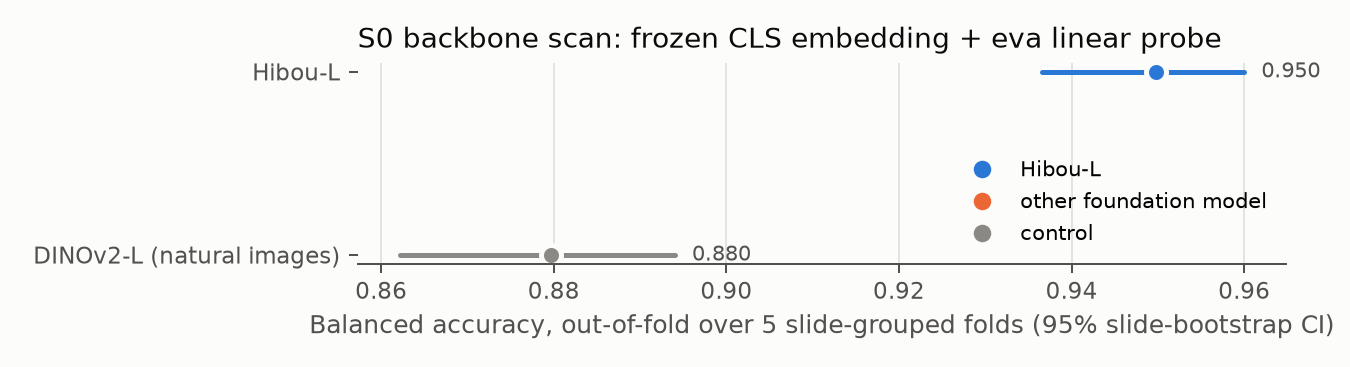
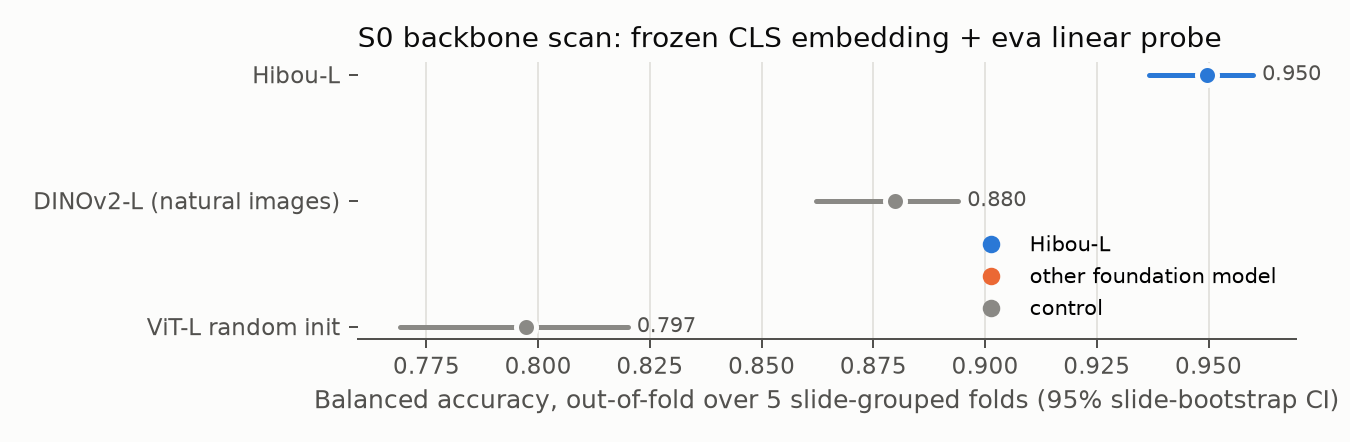
Release: S0_scan_random_vitl_reg4
New trained classifier(s) / decision(s): S0_scan_random_vitl_reg4. Compared with the original Hibou-L probe and the controls; paper, reports, README, site and Hugging Face updated.

diff --git a/README.md b/README.md
@@ -57,6 +57,7 @@ H2 reproduction gate: valid BA 0.9394 ± 0.0007 (5 seeds) vs. eva's published 0.
 | `S0_eva_exact_hibou_l` | Hibou-L | linear | 1024 | — | 0.9396 [0.8936, 0.9638] | 0.0007 | 0.9833 | yes |
 | `S0_hibou_l_cls_linear` | Hibou-L | linear | 1024 | 0.9498 [0.9366, 0.9600] | 0.9367 [0.8888, 0.9617] | 0.0015 | 0.9823 | yes |
 | `S0_scan_dinov2_reg_l` | DINOv2-L (natural images) | linear | 1024 | 0.8797 [0.8622, 0.8940] | 0.8682 [0.8103, 0.9023] | 0.0000 | 0.9448 | yes |
+| `S0_scan_random_vitl_reg4` | ViT-L random init | linear | 1024 | 0.7973 [0.7692, 0.8201] | 0.7902 [0.7232, 0.8334] | 0.0000 | 0.8721 | yes |
 | `S1_b_cls24_mean24` | Hibou-L | linear | 2048 | 0.9491 [0.9353, 0.9598] | 0.9353 [0.8830, 0.9607] | 0.0019 | 0.9816 | yes |
 | `S1_c_dinov2_last4` | Hibou-L | linear | 5120 | 0.9457 [0.9303, 0.9573] | 0.9316 [0.8712, 0.9593] | 0.0025 | 0.9796 | yes |
 | `S1_d_spread_6_12_18_24` | Hibou-L | linear | 8192 | 0.9469 [0.9318, 0.9585] | 0.9326 [0.8786, 0.9594] | 0.0020 | 0.9787 | yes |

diff --git a/reports/tables/arms.md b/reports/tables/arms.md
@@ -6,6 +6,7 @@
 | `S0_eva_exact_hibou_l` | Hibou-L | linear | 1024 | — | 0.9396 [0.8936, 0.9638] | 0.0007 | 0.9833 | yes |
 | `S0_hibou_l_cls_linear` | Hibou-L | linear | 1024 | 0.9498 [0.9366, 0.9600] | 0.9367 [0.8888, 0.9617] | 0.0015 | 0.9823 | yes |
 | `S0_scan_dinov2_reg_l` | DINOv2-L (natural images) | linear | 1024 | 0.8797 [0.8622, 0.8940] | 0.8682 [0.8103, 0.9023] | 0.0000 | 0.9448 | yes |
+| `S0_scan_random_vitl_reg4` | ViT-L random init | linear | 1024 | 0.7973 [0.7692, 0.8201] | 0.7902 [0.7232, 0.8334] | 0.0000 | 0.8721 | yes |
 | `S1_b_cls24_mean24` | Hibou-L | linear | 2048 | 0.9491 [0.9353, 0.9598] | 0.9353 [0.8830, 0.9607] | 0.0019 | 0.9816 | yes |
 | `S1_c_dinov2_last4` | Hibou-L | linear | 5120 | 0.9457 [0.9303, 0.9573] | 0.9316 [0.8712, 0.9593] | 0.0025 | 0.9796 | yes |
 | `S1_d_spread_6_12_18_24` | Hibou-L | linear | 8192 | 0.9469 [0.9318, 0.9585] | 0.9326 [0.8786, 0.9594] | 0.0020 | 0.9787 | yes |

diff --git a/reports/experiments_summary.md b/reports/experiments_summary.md
@@ -33,7 +33,7 @@ Current incumbent: `S3b_oof_label_cleaning`.
 | Phikon | ViT-B/16, 86M | iBOT | TCGA tiles | pending | https://huggingface.co/owkin/phikon |
 | Phikon-v2 | ViT-L/16, 303M | DINOv2 | TCGA, CPTAC, GTEx, TCIA (public) | pending | https://huggingface.co/owkin/phikon-v2 |
 | DINOv2-L (control) | ViT-L/14 + 4 registers, 304M | DINOv2 | LVD-142M natural images | 0.8797 [0.8622, 0.8940] | https://arxiv.org/abs/2309.16588 |
-| Random ViT-L (control) | ViT-L/14 + 4 registers, 304M | none (random init) | none | pending | — |
+| Random ViT-L (control) | ViT-L/14 + 4 registers, 304M | none (random init) | none | 0.7973 [0.7692, 0.8201] | — |
 
 ## Experiments
 
